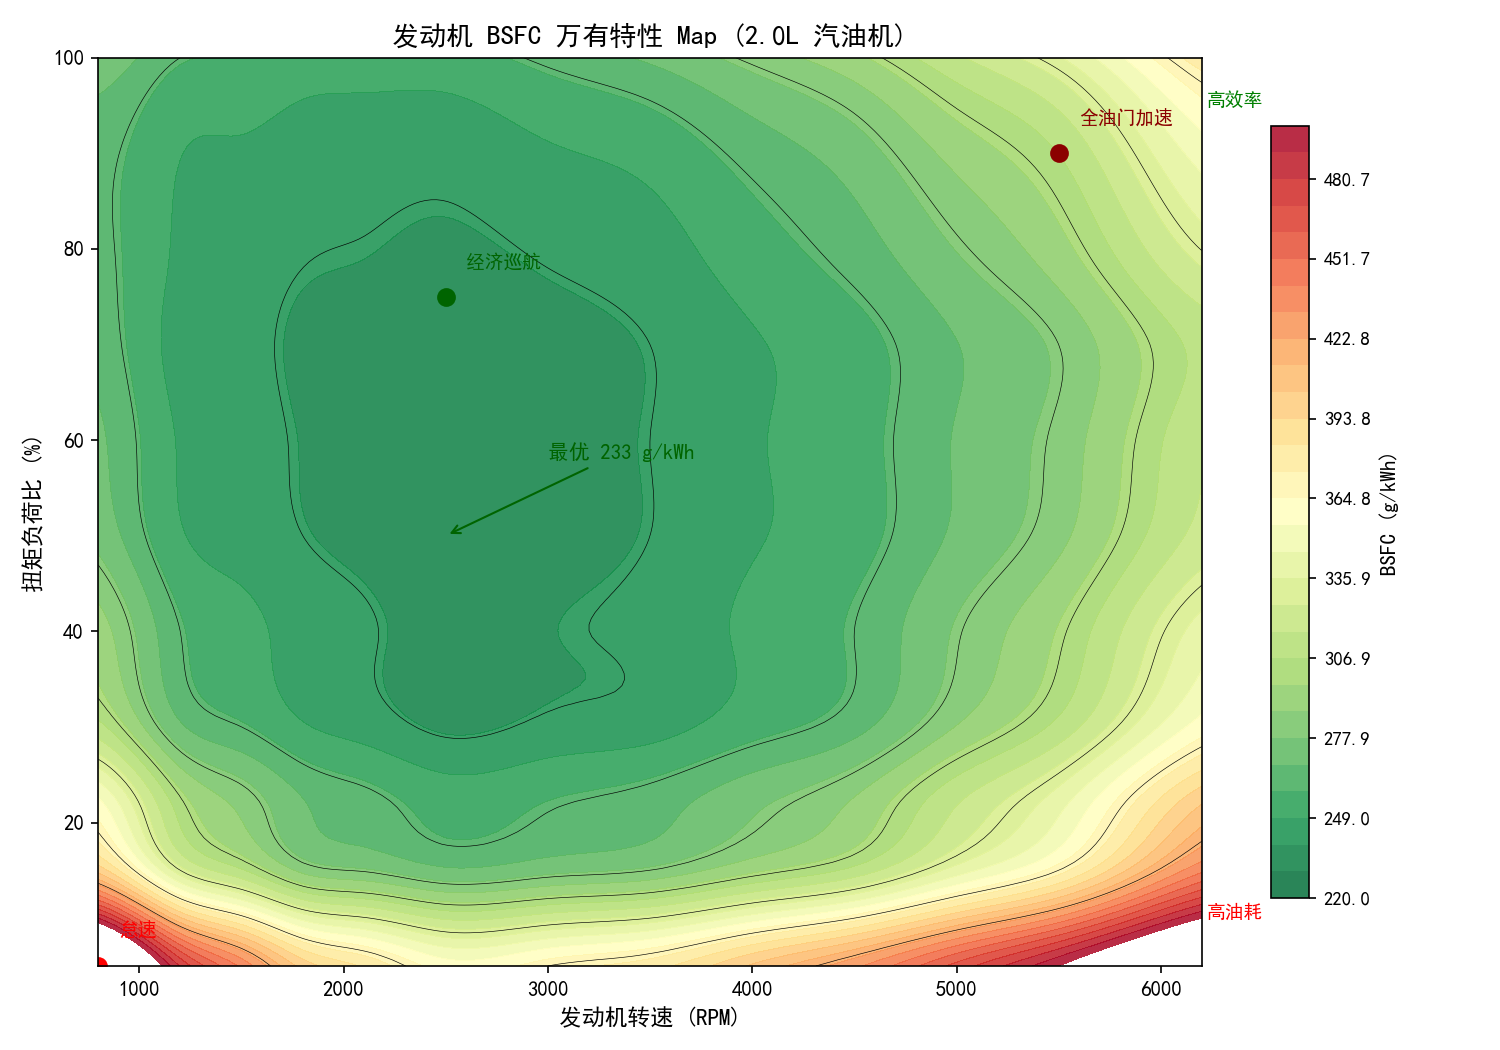
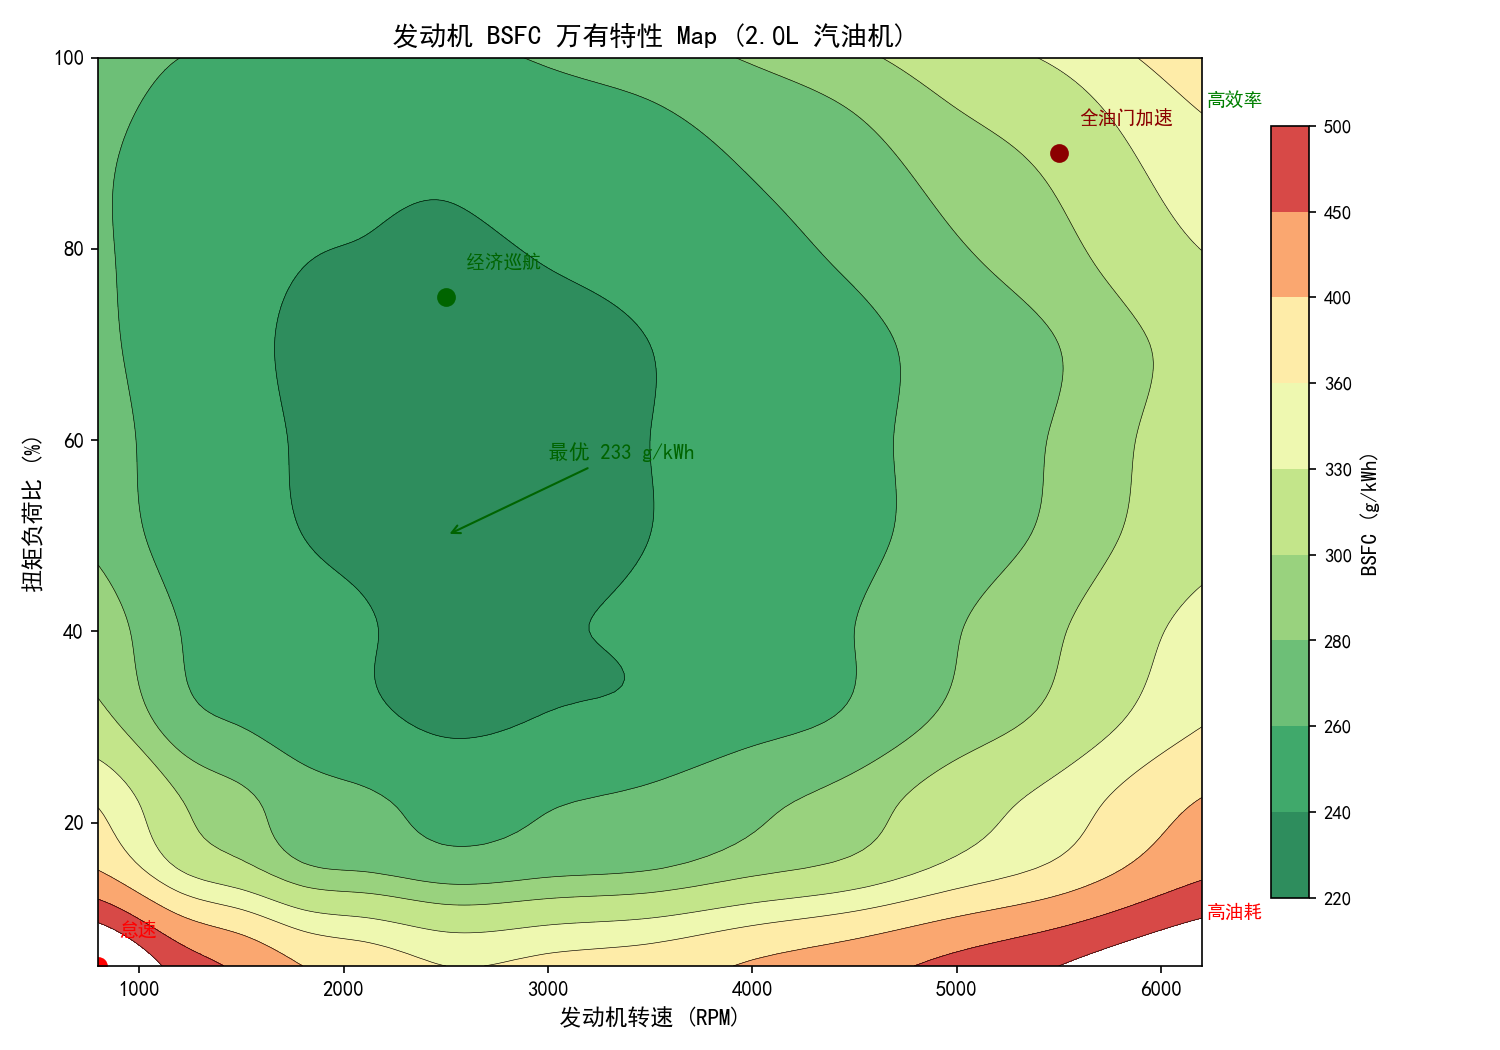
refactor: reduce contour levels to 10, spline handles smoothness

diff --git a/vehicle_dynamics.py b/vehicle_dynamics.py
@@ -375,15 +375,14 @@ def plot_bsfc_map(save_path=None):
 
     fig, ax = plt.subplots(figsize=(10, 7))
 
-    # 填充等高线（30 层细密渐变）
-    levels = np.linspace(220, 500, 30)
+    # 填充等高线
+    levels = [220, 240, 260, 280, 300, 330, 360, 400, 450, 500]
     cs = ax.contourf(R_fine, L_fine, bsfc_fine, levels=levels, cmap="RdYlGn_r", alpha=0.85)
     cbar = fig.colorbar(cs, ax=ax, label="BSFC (g/kWh)", shrink=0.85)
     cbar.ax.tick_params(labelsize=9)
 
-    # 稀疏标注线（只在关键层级画）
-    label_levels = [240, 260, 280, 300, 330, 370, 420]
-    ax.contour(R_fine, L_fine, bsfc_fine, levels=label_levels, colors="black", linewidths=0.3)
+    # 标注线
+    ax.contour(R_fine, L_fine, bsfc_fine, levels=levels, colors="black", linewidths=0.3)
 
     # 标注最优区（找数组中最小值位置）
     min_flat = np.argmin(bsfc_data)
